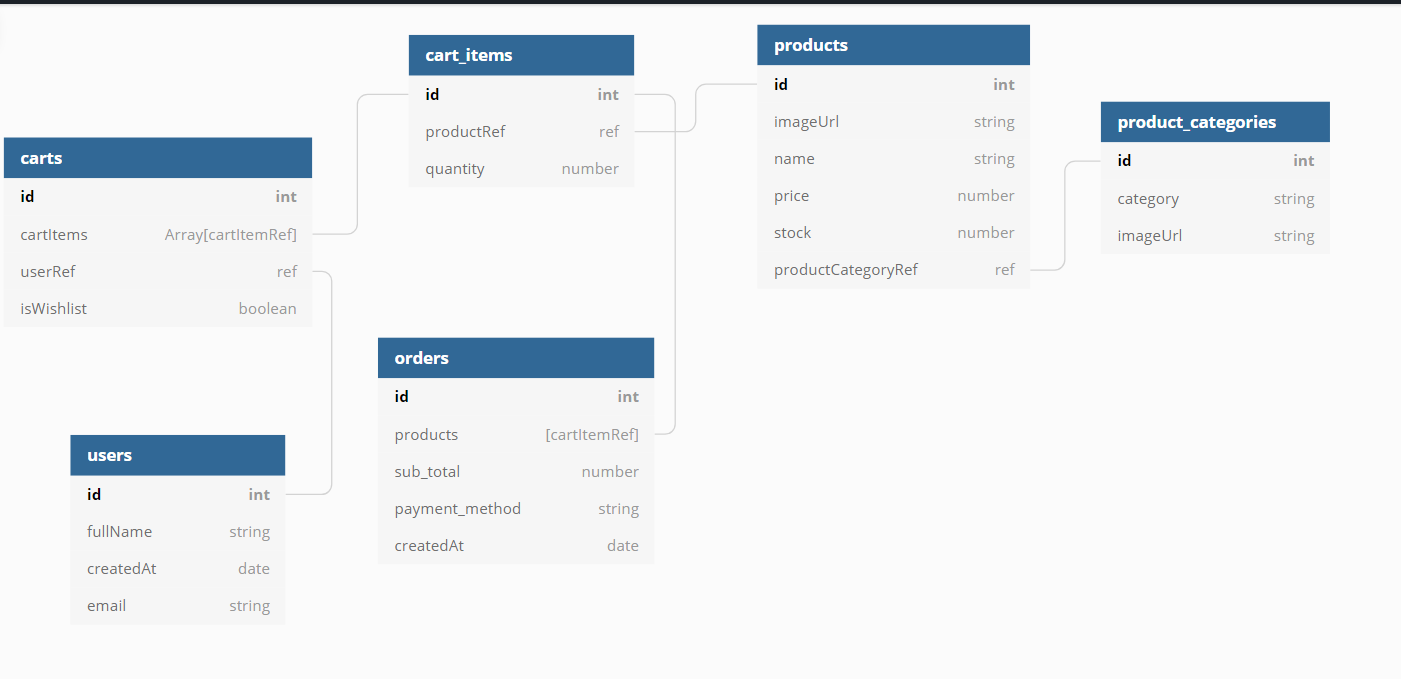
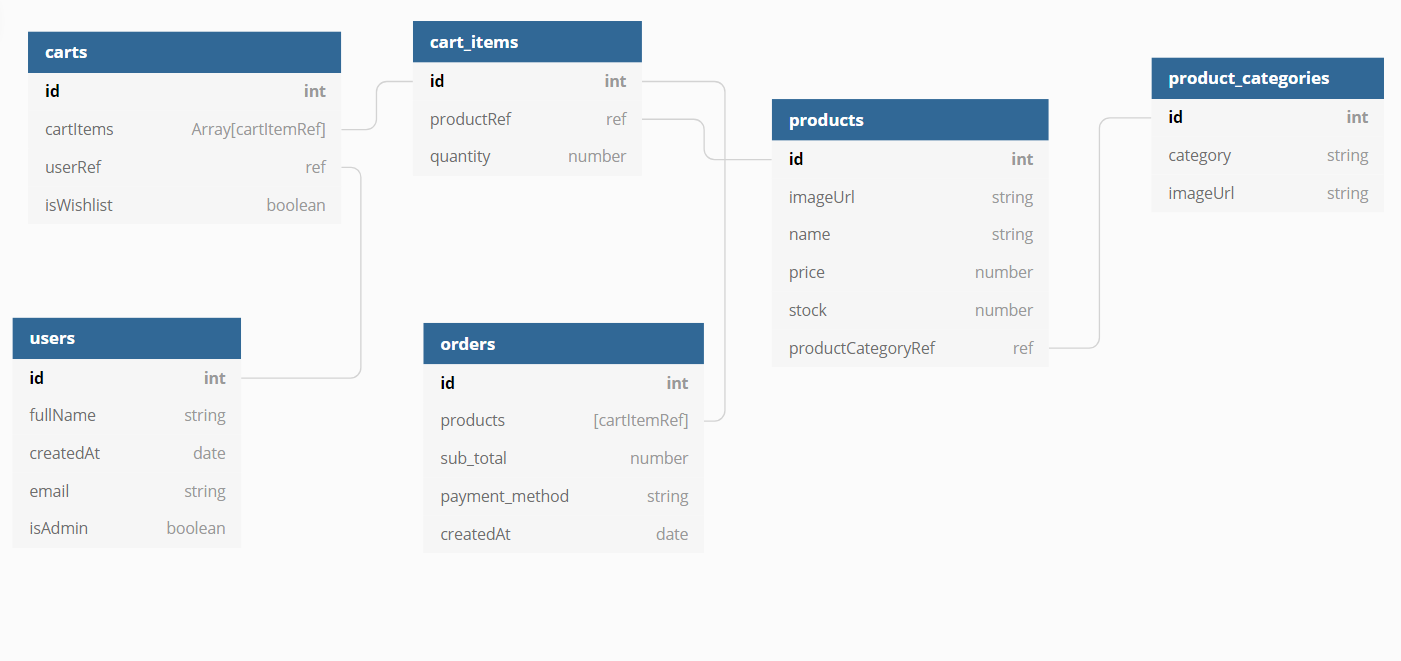
Updates database_schemas by adding isAdmin field in users collection.

diff --git a/client/src/redux/user/user.sagas.js b/client/src/redux/user/user.sagas.js
@@ -51,7 +51,7 @@ function* setUserFromSession() {
       yield call(setUserFromSnapShot, user);
     }
   } catch (e) {
-    yield put(signInFail("Auto sign in failed, please try again"));
+    yield put(signInFail("Auto sign in failed, please login again"));
   }
 }
 
